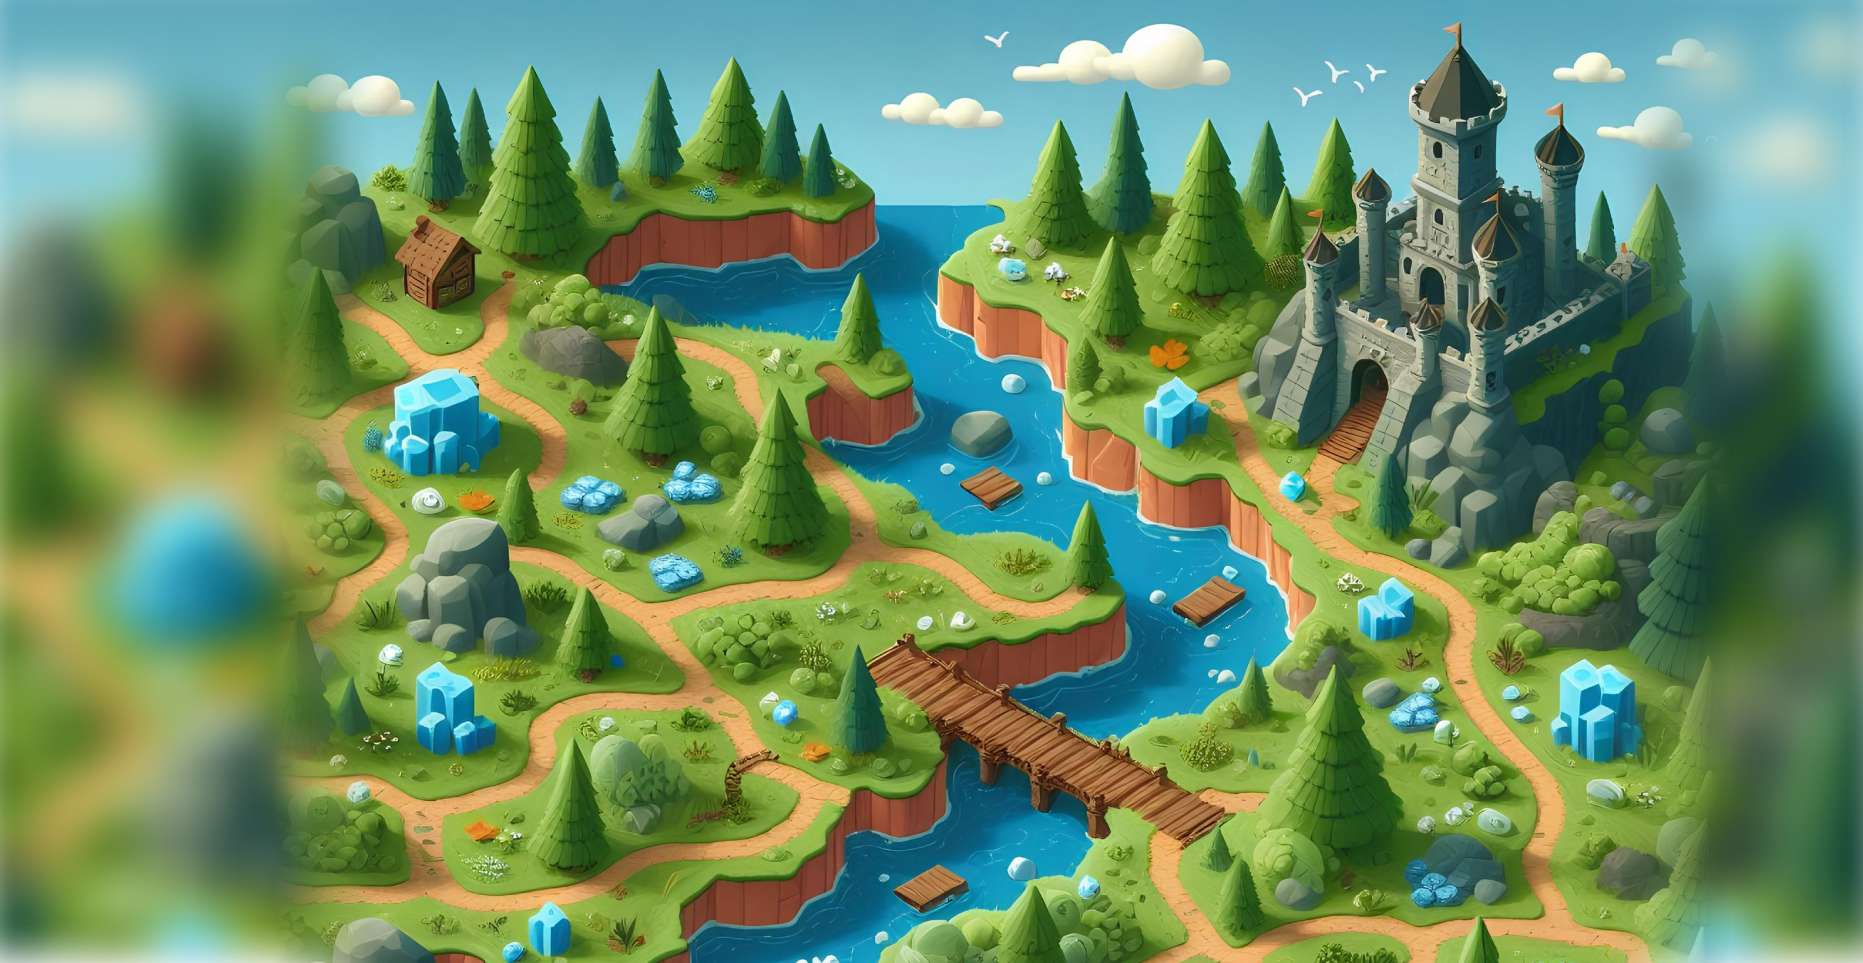
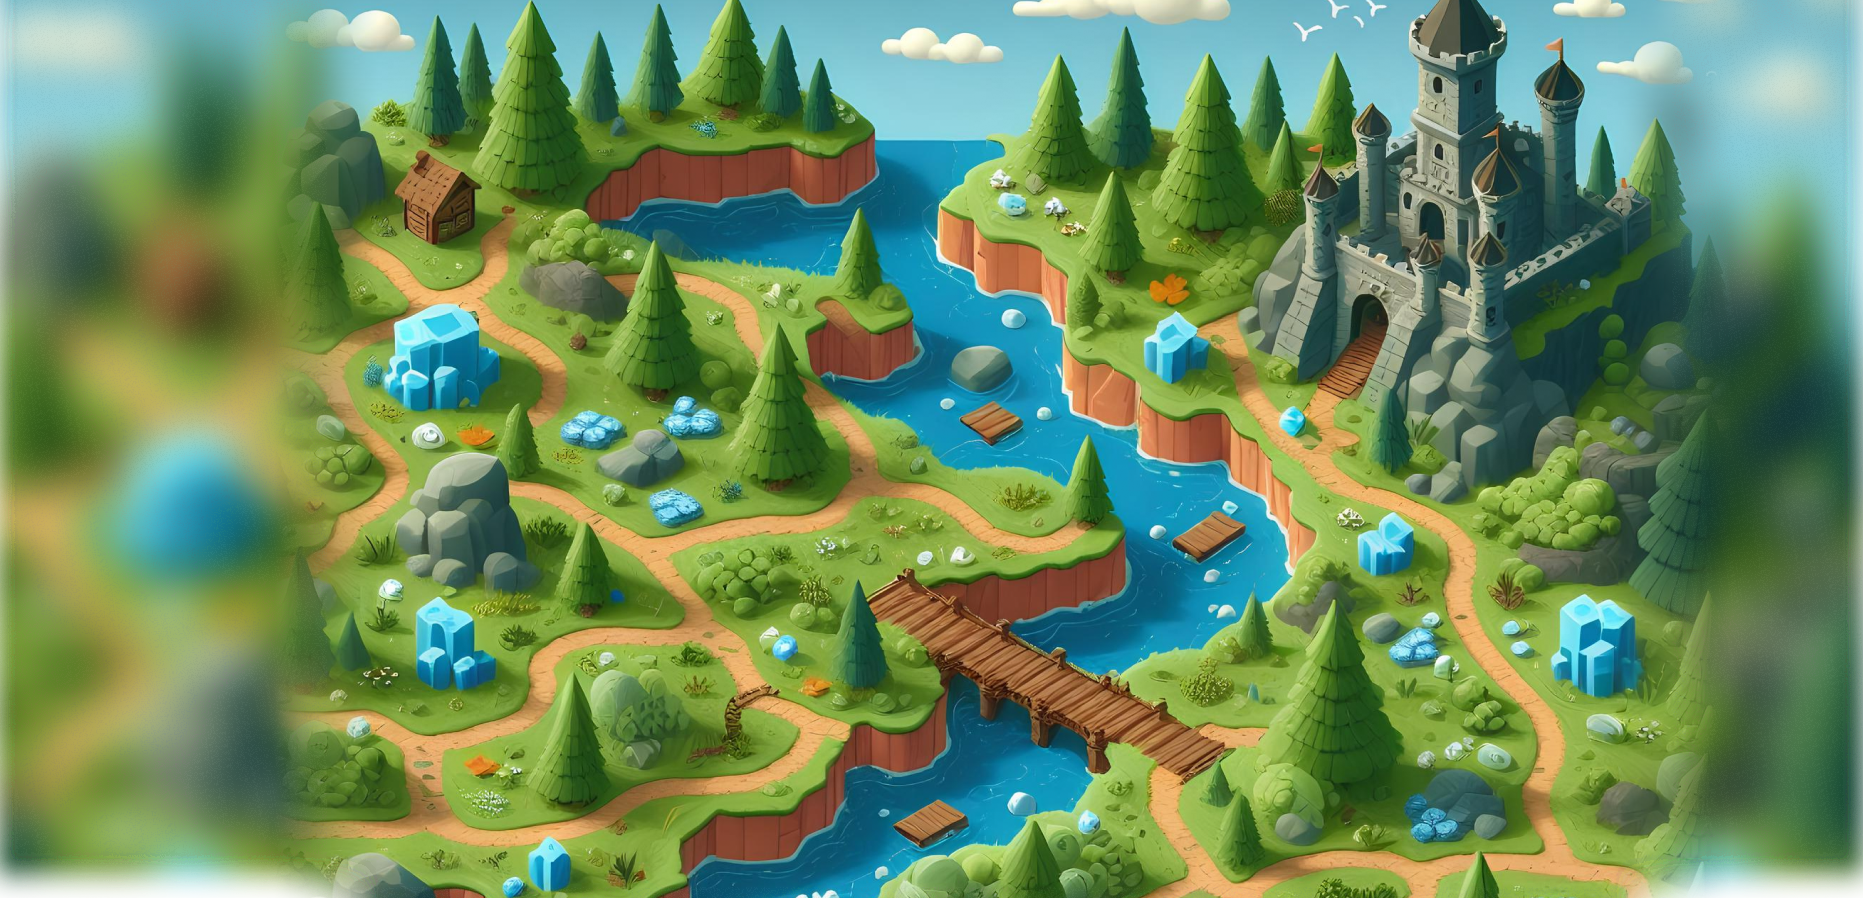
вернул на относительные велечины сделал карту contain

diff --git a/frontend/src/components/MainMenu/styled.js b/frontend/src/components/MainMenu/styled.js
@@ -18,7 +18,6 @@ const currentLevelAnimation = keyframes`
 export const Game = styled.div`
   display: flex;
   gap: 100px;
-  overflow: auto;
 
   position: absolute;
   width: 100%;
@@ -29,7 +28,7 @@ export const GameDescription = styled.div`
   position: absolute;
 
   flex-shrink: 0;
-  width: 400px;
+  width: 21vw;
   height: calc(100vh - 40px);
   margin: 20px;
   background: white;
@@ -70,7 +69,7 @@ export const Wizard = styled.div`
   background: url(${wizardImage}) no-repeat center;
 
   position: relative;
-  left: 250px;
+  left: 13vw;
   top: 0;
   z-index: 1;
 `;
@@ -82,7 +81,7 @@ export const Gem1 = styled.div`
   background: url(${gemImage}) no-repeat center;
 
   position: relative;
-  left: 230px;
+  left: 12vw;
   bottom: 170px;
   z-index: 0;
 `;
@@ -94,7 +93,7 @@ export const Gem2 = styled.div`
   background: url(${gemImage}) no-repeat center;
 
   position: relative;
-  left: 173px;
+  left: 9vw;
   bottom: 130px;
   z-index: 0;
 `;
@@ -106,7 +105,7 @@ export const Gem3 = styled.div`
   background: url(${gemImage}) no-repeat center;
 
   position: relative;
-  left: 346px;
+  left: 18vw;
   bottom: 280px;
   z-index: 0;
 `;
@@ -142,14 +141,14 @@ export const Tag = styled.div`
 
 export const Map = styled.div`
   position: relative;
-  width: 1920px;
-  height: 1080px;
+  width: 100%;
+  height: 100%;
   flex-shrink: 0;
 
   z-index: 0;
 
-  background: url(${gameMap}) no-repeat bottom;
-  background-size: cover;
+  background: url(${gameMap}) no-repeat center;
+  background-size: contain;
 `;
 
 export const Level = styled.button`

diff --git a/frontend/src/components/MainMenu/MainMenu.js b/frontend/src/components/MainMenu/MainMenu.js
@@ -28,16 +28,18 @@ export const MainMenu = () => {
   useEffect(() => {
     (async () => {
       try {
-        const levels = await axios.get('/user/forest/levels', {
-          withCredentials: true,
-        });
-        if (levels.data) setUserLevels(levels.data);
-      } finally {
-        const game = await axios.get('/games/forest', {
-          withCredentials: true,
-        });
-        setGame(game.data);
+        const levels = await axios.get('/user/forest/levels', { withCredentials: true });
+        if (levels.data)
+          setUserLevels(levels.data);
+      } catch (e) {
+        if (e.response?.status !== 401)
+          throw e;
       }
+      
+      const game = await axios.get('/games/forest', {
+        withCredentials: true,
+      });
+      setGame(game.data);
     })();
   }, []);
 
